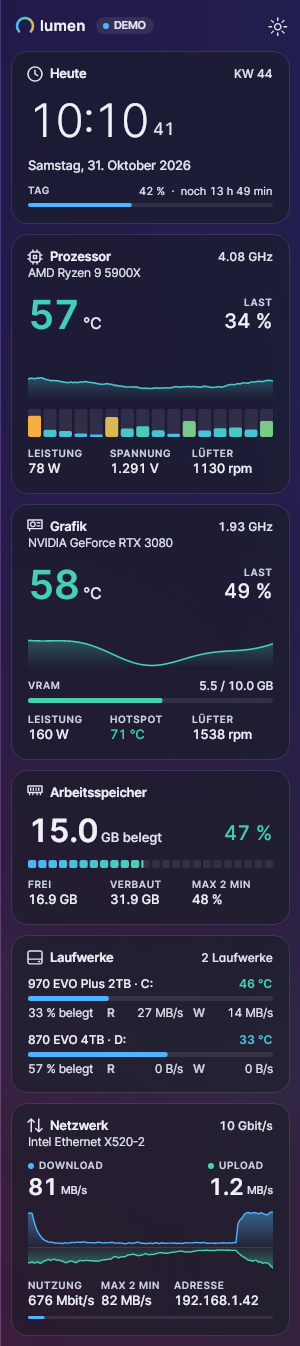
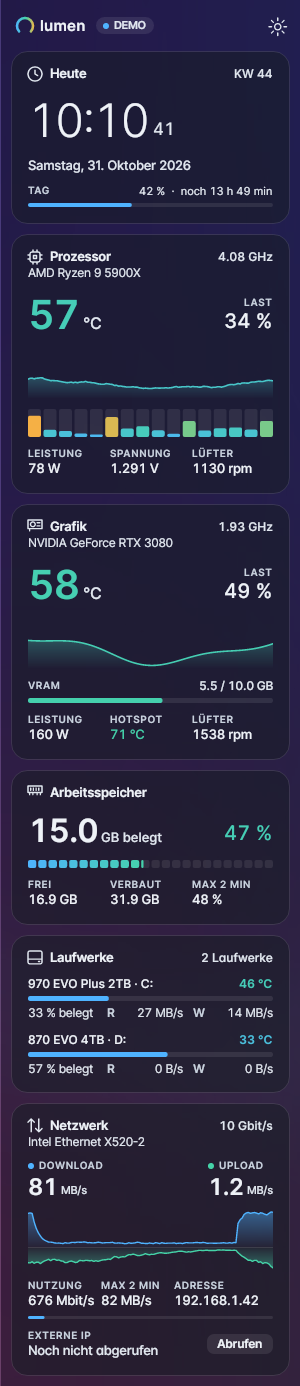
1.9.9: external IP on demand
Claude-Session: https://claude.ai/code/session_013ZRAQvxSE7kvrCVH4BjrzG

diff --git a/src/Lumen.App/Cards.cs b/src/Lumen.App/Cards.cs
@@ -334,9 +334,43 @@ public sealed class NetworkCard : Card
         if (stats.Count > 0) Body.Children.Add(StatGrid.Weighted(string.Join(",", stats.Keys.Select(k => k == "net.address" ? "1.35*" : "*")), stats.Values.ToArray()));
         // How full the link is, as a thin bar under the figures.
         if (stats.ContainsKey("net.use")) { linkBar = new Meter { Height = 3, Palette = p, Margin = new Thickness(0, -4, 0, 0) }; Body.Children.Add(linkBar); }
+        // The external address is fetched only when the button is clicked, never on its own.
+        if (Shows("net.external"))
+        {
+            externalValue = Ui.Text("", 12.5, p.Ink, FontWeight.Medium, true);
+            var fetch = new Button
+            {
+                Content = Ui.Text(T("Get"), 11.5, p.Ink, FontWeight.SemiBold),
+                Padding = new Thickness(10, 3), CornerRadius = new CornerRadius(7), VerticalAlignment = VerticalAlignment.Center,
+                Background = Palette.Brush(p.Track), BorderThickness = new Thickness(0), Cursor = new Avalonia.Input.Cursor(Avalonia.Input.StandardCursorType.Hand)
+            };
+            ToolTip.SetTip(fetch, T("Asks api.ipify.org once for the public address of this connection."));
+            fetch.Click += async (_, _) => await ExternalIp.FetchAsync();
+            externalButton = fetch;
+            var label = Label(T("External IP"), p);
+            Body.Children.Add(Ui.Columns("*,Auto", Ui.Stack(1, label, externalValue), fetch));
+            ShowExternal();
+            ExternalIp.Changed += OnExternal;
+            DetachedFromVisualTree += (_, _) => ExternalIp.Changed -= OnExternal;
+        }
     }
 
     private readonly Meter? linkBar;
+    private readonly TextBlock? externalValue;
+    private readonly Button? externalButton;
+
+    private void OnExternal() => Avalonia.Threading.Dispatcher.UIThread.Post(ShowExternal);
+
+    private void ShowExternal()
+    {
+        if (externalValue is null) return;
+        externalValue.Text = ExternalIp.Busy ? T("Asking…")
+            : ExternalIp.Address is string a ? $"{a}  ·  {ExternalIp.At:HH:mm}"
+            : ExternalIp.Failed ? T("Not reachable")
+            : T("Not fetched yet");
+        externalValue.Foreground = Palette.Brush(ExternalIp.Address is null ? P.Soft : P.Ink);
+        if (externalButton != null) externalButton.IsEnabled = !ExternalIp.Busy;
+    }
 
     public override void Update(Snapshot s, History h)
     {
@@ -699,7 +733,7 @@ public static class Cards
         WidgetKind.Memory => new[] { ("mem.bar", T("Segment bar")), ("mem.free", T("Available")), ("mem.total", T("Installed")), ("mem.peak", T("2-min peak")) },
         WidgetKind.Processes => new[] { ("proc.memory", "RAM") },
         WidgetKind.Drives => new[] { ("drives.model", T("Model name")), ("drives.temp", T("Temperature")), ("drives.bar", T("Usage bar")), ("drives.used", T("Used in %")), ("drives.io", T("Read and write rates")), ("drives.temps", T("Each drive")) },
-        WidgetKind.Network => new[] { ("net.link", T("Link speed")), ("net.chart", T("History chart")), ("net.use", T("Link use")), ("net.peak", T("2-min peak")), ("net.address", T("Address")) },
+        WidgetKind.Network => new[] { ("net.link", T("Link speed")), ("net.chart", T("History chart")), ("net.use", T("Link use")), ("net.peak", T("2-min peak")), ("net.address", T("Address")), ("net.external", T("External IP")) },
         WidgetKind.Fps => new[] { ("fps.chart", T("History chart")), ("fps.frametime", T("Frame time")) },
         WidgetKind.Ping => new[] { ("ping.chart", T("History chart")), ("ping.jitter", T("Jitter")), ("ping.loss", T("Loss")), ("ping.target", T("Target")) },
         WidgetKind.Power => new[] { ("power.chart", T("History chart")), ("power.cost", T("Costs")), ("power.note", T("Note on the estimate")) },

diff --git a/src/Lumen.App/Strings.cs b/src/Lumen.App/Strings.cs
@@ -295,6 +295,12 @@ Volume name|Laufwerksname|Nom du volume|Nome volume|Nombre del volumen|Nome do v
 Free space|Freier Platz|Espace libre|Spazio libero|Espacio libre|Espaço livre
 Drives shown|Angezeigte Laufwerke|Disques affichés|Unità mostrate|Unidades mostradas|Unidades mostradas
 Volumes shown|Angezeigte Partitionen|Volumes affichés|Volumi mostrati|Volúmenes mostrados|Volumes mostrados
+External IP|Externe IP|IP externe|IP esterno|IP externa|IP externo
+Get|Abrufen|Obtenir|Recupera|Obtener|Obter
+Asking…|Wird abgerufen…|Demande…|Richiesta…|Consultando…|A consultar…
+Not reachable|Nicht erreichbar|Injoignable|Non raggiungibile|No disponible|Indisponível
+Not fetched yet|Noch nicht abgerufen|Pas encore demandée|Non ancora recuperato|Aún no obtenida|Ainda não obtido
+Asks api.ipify.org once for the public address of this connection.|Fragt api.ipify.org einmal nach der öffentlichen Adresse dieser Verbindung.|Demande une fois à api.ipify.org l'adresse publique de cette connexion.|Chiede una volta ad api.ipify.org l'indirizzo pubblico di questa connessione.|Pregunta una vez a api.ipify.org la dirección pública de esta conexión.|Pergunta uma vez a api.ipify.org o endereço público desta ligação.
 Register names|Register-Namen|Noms des pages|Nomi delle pagine|Nombres de páginas|Nomes das páginas
 Shown at the top instead of 1, 2, 3; leave empty for the number.|Steht oben statt 1, 2, 3; leer lassen für die Nummer.|Affiché en haut au lieu de 1, 2, 3 ; vide = numéro.|Mostrato in alto al posto di 1, 2, 3; vuoto = numero.|Se muestra arriba en lugar de 1, 2, 3; vacío = número.|Mostrado no topo em vez de 1, 2, 3; vazio = número.
 Whole screen|Ganzer Bildschirm|Plein écran|Schermo intero|Pantalla completa|Ecrã inteiro

diff --git a/src/Lumen.Core/Services.cs b/src/Lumen.Core/Services.cs
@@ -217,3 +217,44 @@ public static class SystemReader
         catch { return ("Windows", Environment.OSVersion.Version.ToString()); }
     }
 }
+
+// The public (external) IP address, asked for only when the user clicks – never in the background.
+// One small HTTPS request to a public "what is my IP" service; the answer stays in memory only.
+public static class ExternalIp
+{
+    private static readonly string[] Services = { "https://api.ipify.org", "https://icanhazip.com", "https://ifconfig.me/ip" };
+
+    public static string? Address { get; private set; }
+    public static DateTime? At { get; private set; }
+    public static bool Busy { get; private set; }
+    public static bool Failed { get; private set; }
+
+    public static event Action? Changed;
+
+    public static async Task FetchAsync()
+    {
+        if (Busy) return;
+        Busy = true; Failed = false;
+        Changed?.Invoke();
+        try
+        {
+            using var http = new HttpClient { Timeout = TimeSpan.FromSeconds(6) };
+            http.DefaultRequestHeaders.UserAgent.ParseAdd("Lumen");
+            foreach (var url in Services)
+            {
+                try
+                {
+                    string text = (await http.GetStringAsync(url)).Trim();
+                    if (IPAddress.TryParse(text, out _)) { Address = text; At = DateTime.Now; return; }
+                }
+                catch { }
+            }
+            Failed = true;
+        }
+        finally
+        {
+            Busy = false;
+            Changed?.Invoke();
+        }
+    }
+}

diff --git a/src/Lumen.App/Styles.cs b/src/Lumen.App/Styles.cs
@@ -168,7 +168,7 @@ public static class Summaries
         [WidgetKind.Memory] = new[] { "mem.free", "mem.total", "mem.peak" },
         [WidgetKind.Battery] = new[] { "battery.time", "battery.rate", "battery.health" },
         [WidgetKind.Cooling] = new[] { "cooling.fans", "cooling.board" },
-        [WidgetKind.Network] = new[] { "net.link", "net.use", "net.peak", "net.address" },
+        [WidgetKind.Network] = new[] { "net.link", "net.use", "net.peak", "net.address", "net.external" },
         [WidgetKind.Drives] = new[] { "drives.temps", "drives.io" },
         [WidgetKind.Fps] = new[] { "fps.frametime" },
         [WidgetKind.Ping] = new[] { "ping.jitter", "ping.loss", "ping.target" },
@@ -230,6 +230,8 @@ public static class Summaries
                 Add("net.use", T("Link use"), Format.Bits(n?.DownloadBytesPerSecond * 8));
                 Add("net.peak", T("2-min peak"), Format.Rate(Peak("net.down")));
                 Add("net.address", T("Address"), n?.Address ?? Format.Missing);
+                // Compact styles only show what the Standard card's button last fetched.
+                if (ExternalIp.Address is string ext) Add("net.external", T("External IP"), ext);
                 break;
             }
             case WidgetKind.Drives:

diff --git a/docs/release-notes/v1.9.9.md b/docs/release-notes/v1.9.9.md
@@ -1,0 +1,3 @@
+# Lumen 1.9.9
+
+- Network: external (public) IP address with an "Get" button. It is fetched only when you click – one HTTPS request to api.ipify.org (fallbacks icanhazip.com, ifconfig.me), never in the background – and kept in memory only. Compact styles show the last fetched address. Can be switched off under Customise.
